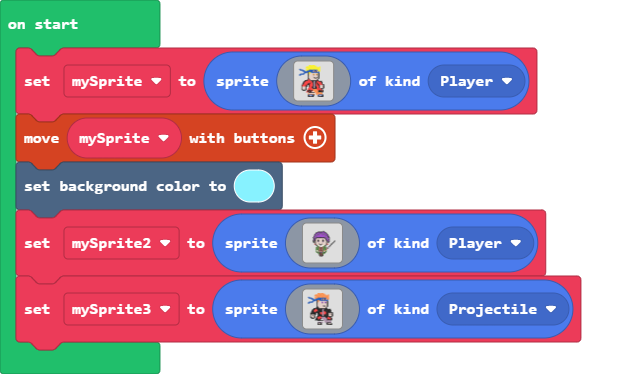
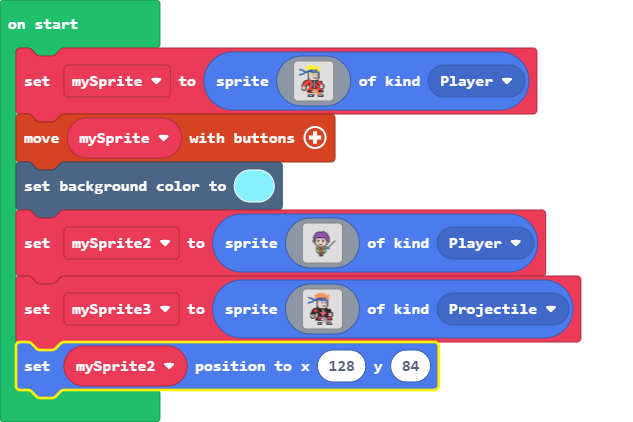
Update main.blocks, main.ts, images.g.jres, images.g.ts

diff --git a/images.g.ts b/images.g.ts
@@ -152,12 +152,12 @@ namespace myImages {
 ..........1fdddddddddddddf1.....f.......
 ..........2fddddfddfdddddf2....f........
 ............fddddffdddddf.....f.........
-.............f711111117f.....f..........
-..............f7e111e7f.....f...........
-............7f7feefeef7f7.bb............
-............f7f7eeeee7f7f.fb............
-............7f7feefeef7f72..............
-............f7f7eeeee7f7f...............
+.............f7ee111ee7f.....f..........
+..............f7eeeee7f..8..f...........
+............7f7feefeef7f7.88............
+............f7f7eeeee7f7f.f8............
+............7f7feefeef7f78..8...........
+............f7f7eeeee7f78...............
 ............7ddfeefeefd27...............
 ............fdd7eeeee7ddf...............
 ............7f7fbbbbbf7f7...............

diff --git a/main.ts b/main.ts
@@ -3,3 +3,4 @@ controller.moveSprite(mySprite)
 scene.setBackgroundColor(9)
 let mySprite2 = sprites.create(assets.image`Tanjiro`, SpriteKind.Player)
 let mySprite3 = sprites.create(assets.image`Pain`, SpriteKind.Projectile)
+mySprite2.setPosition(128, 84)
